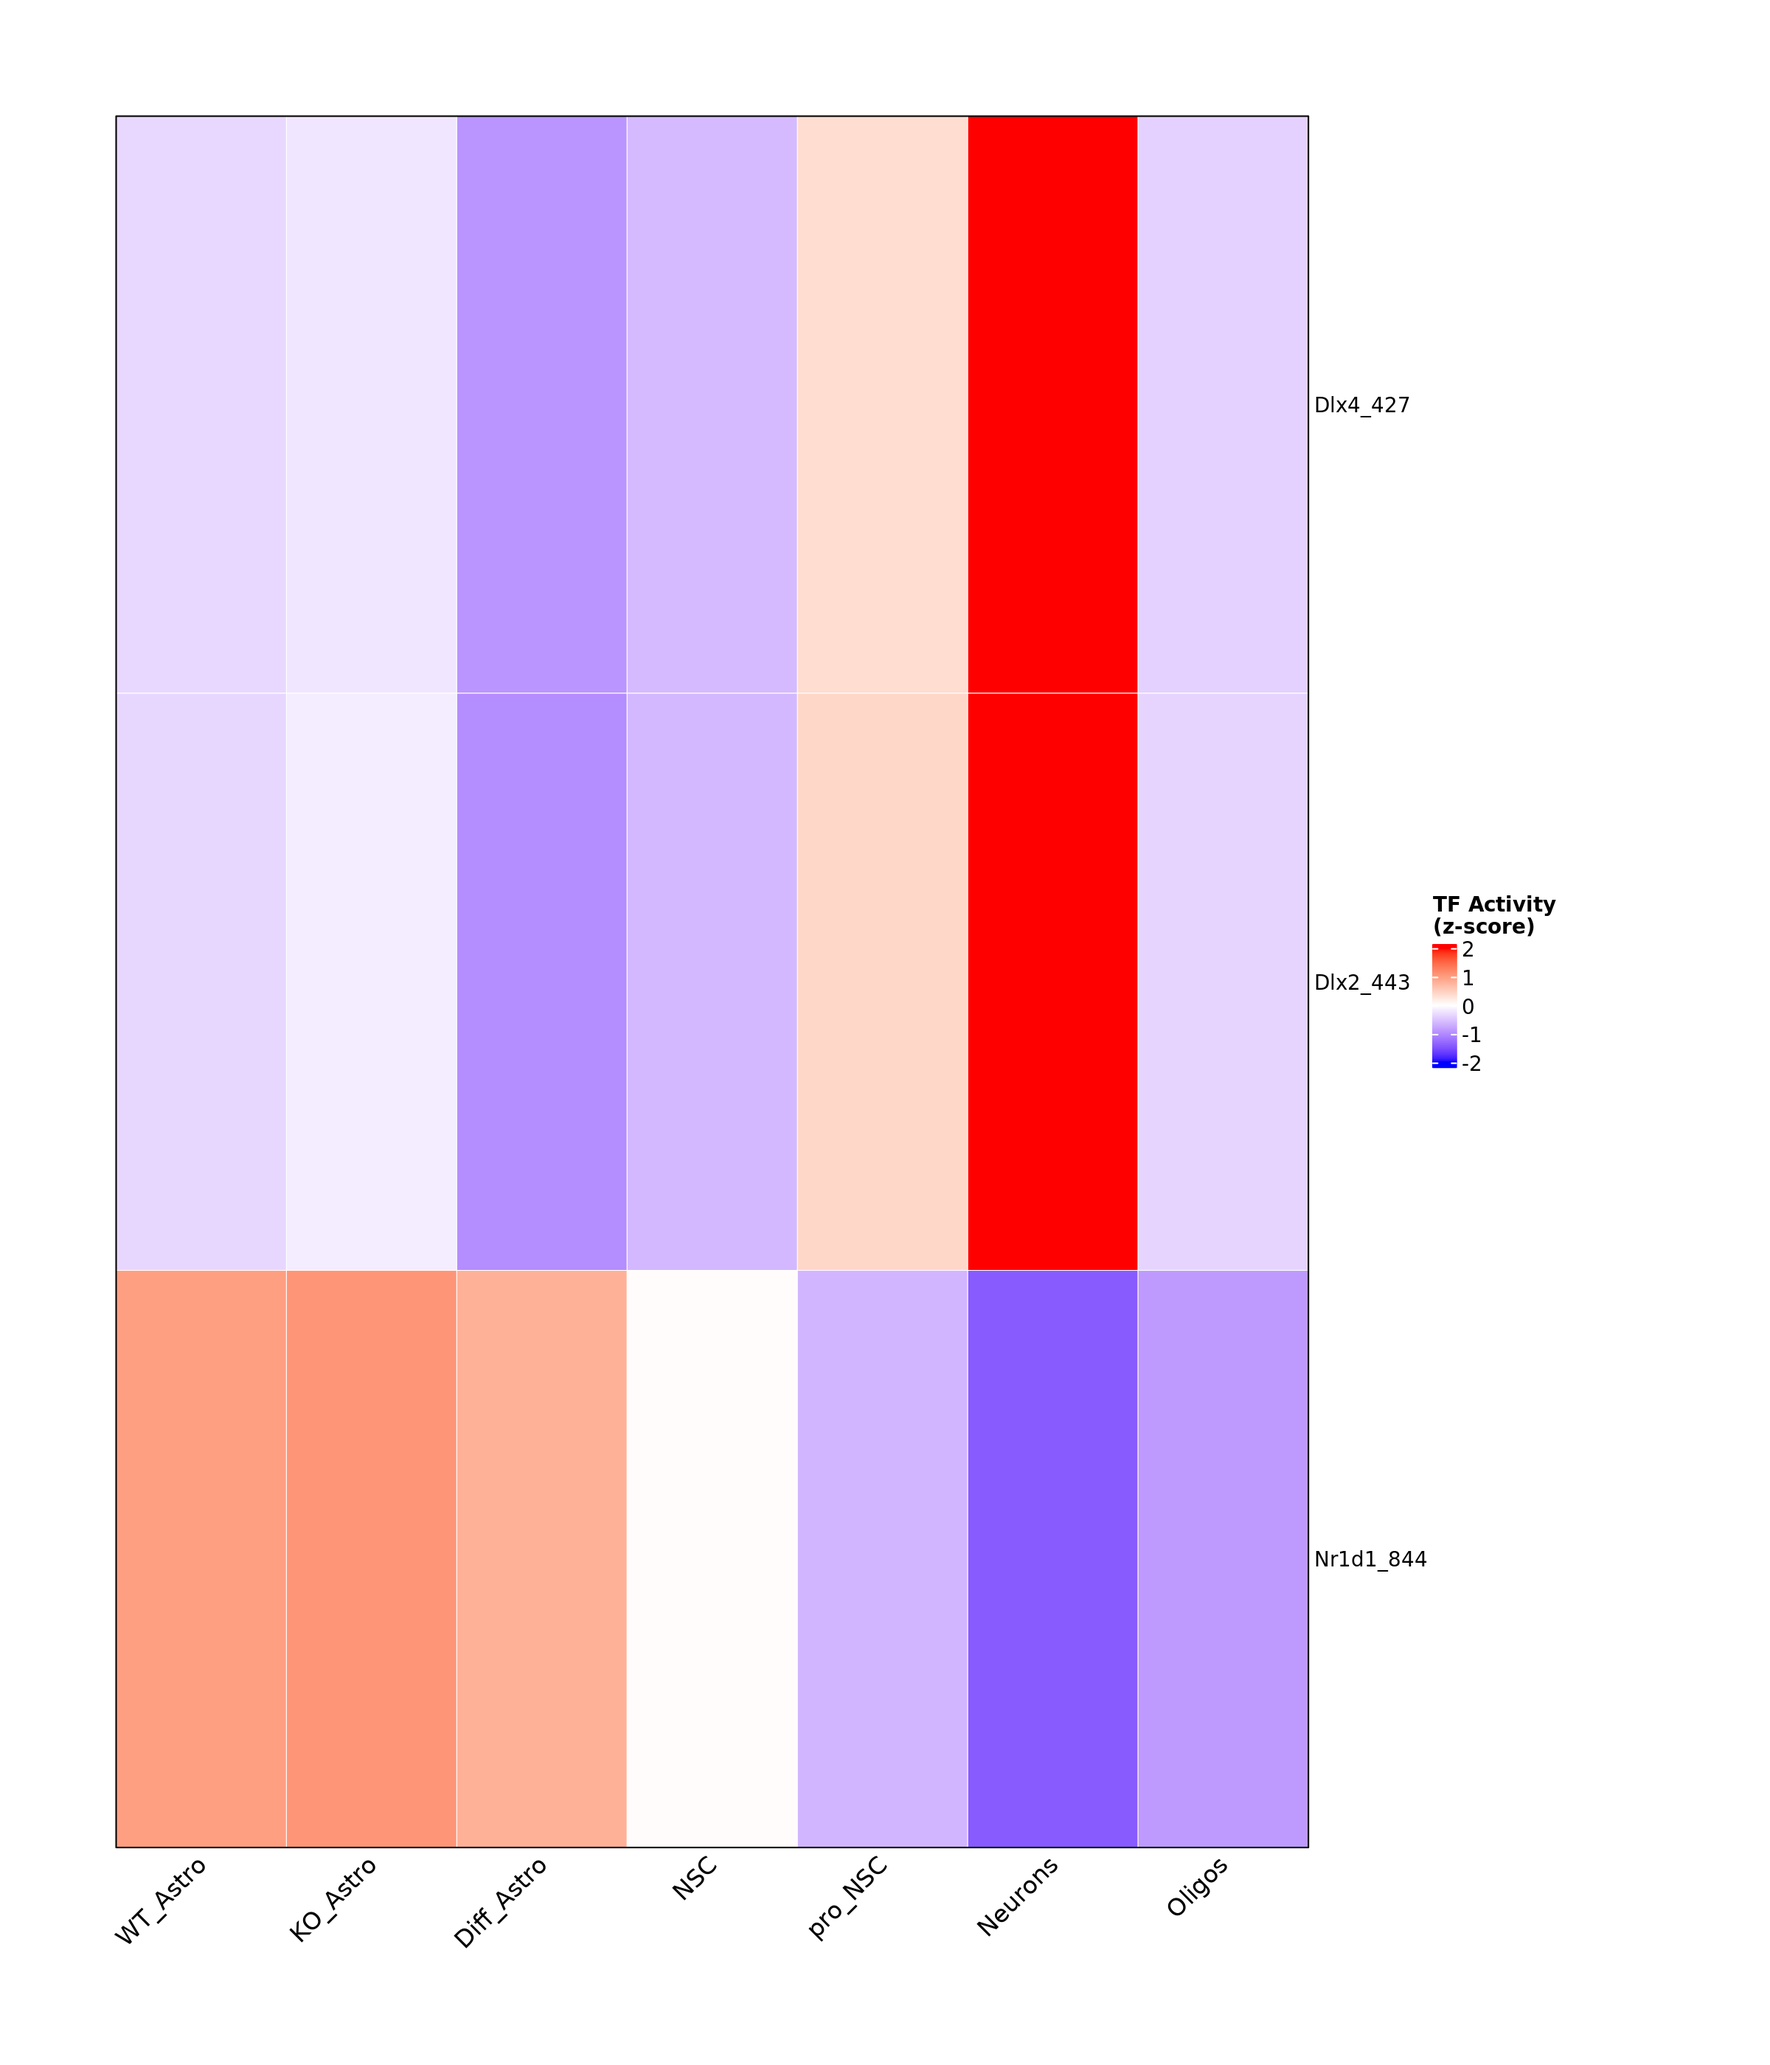
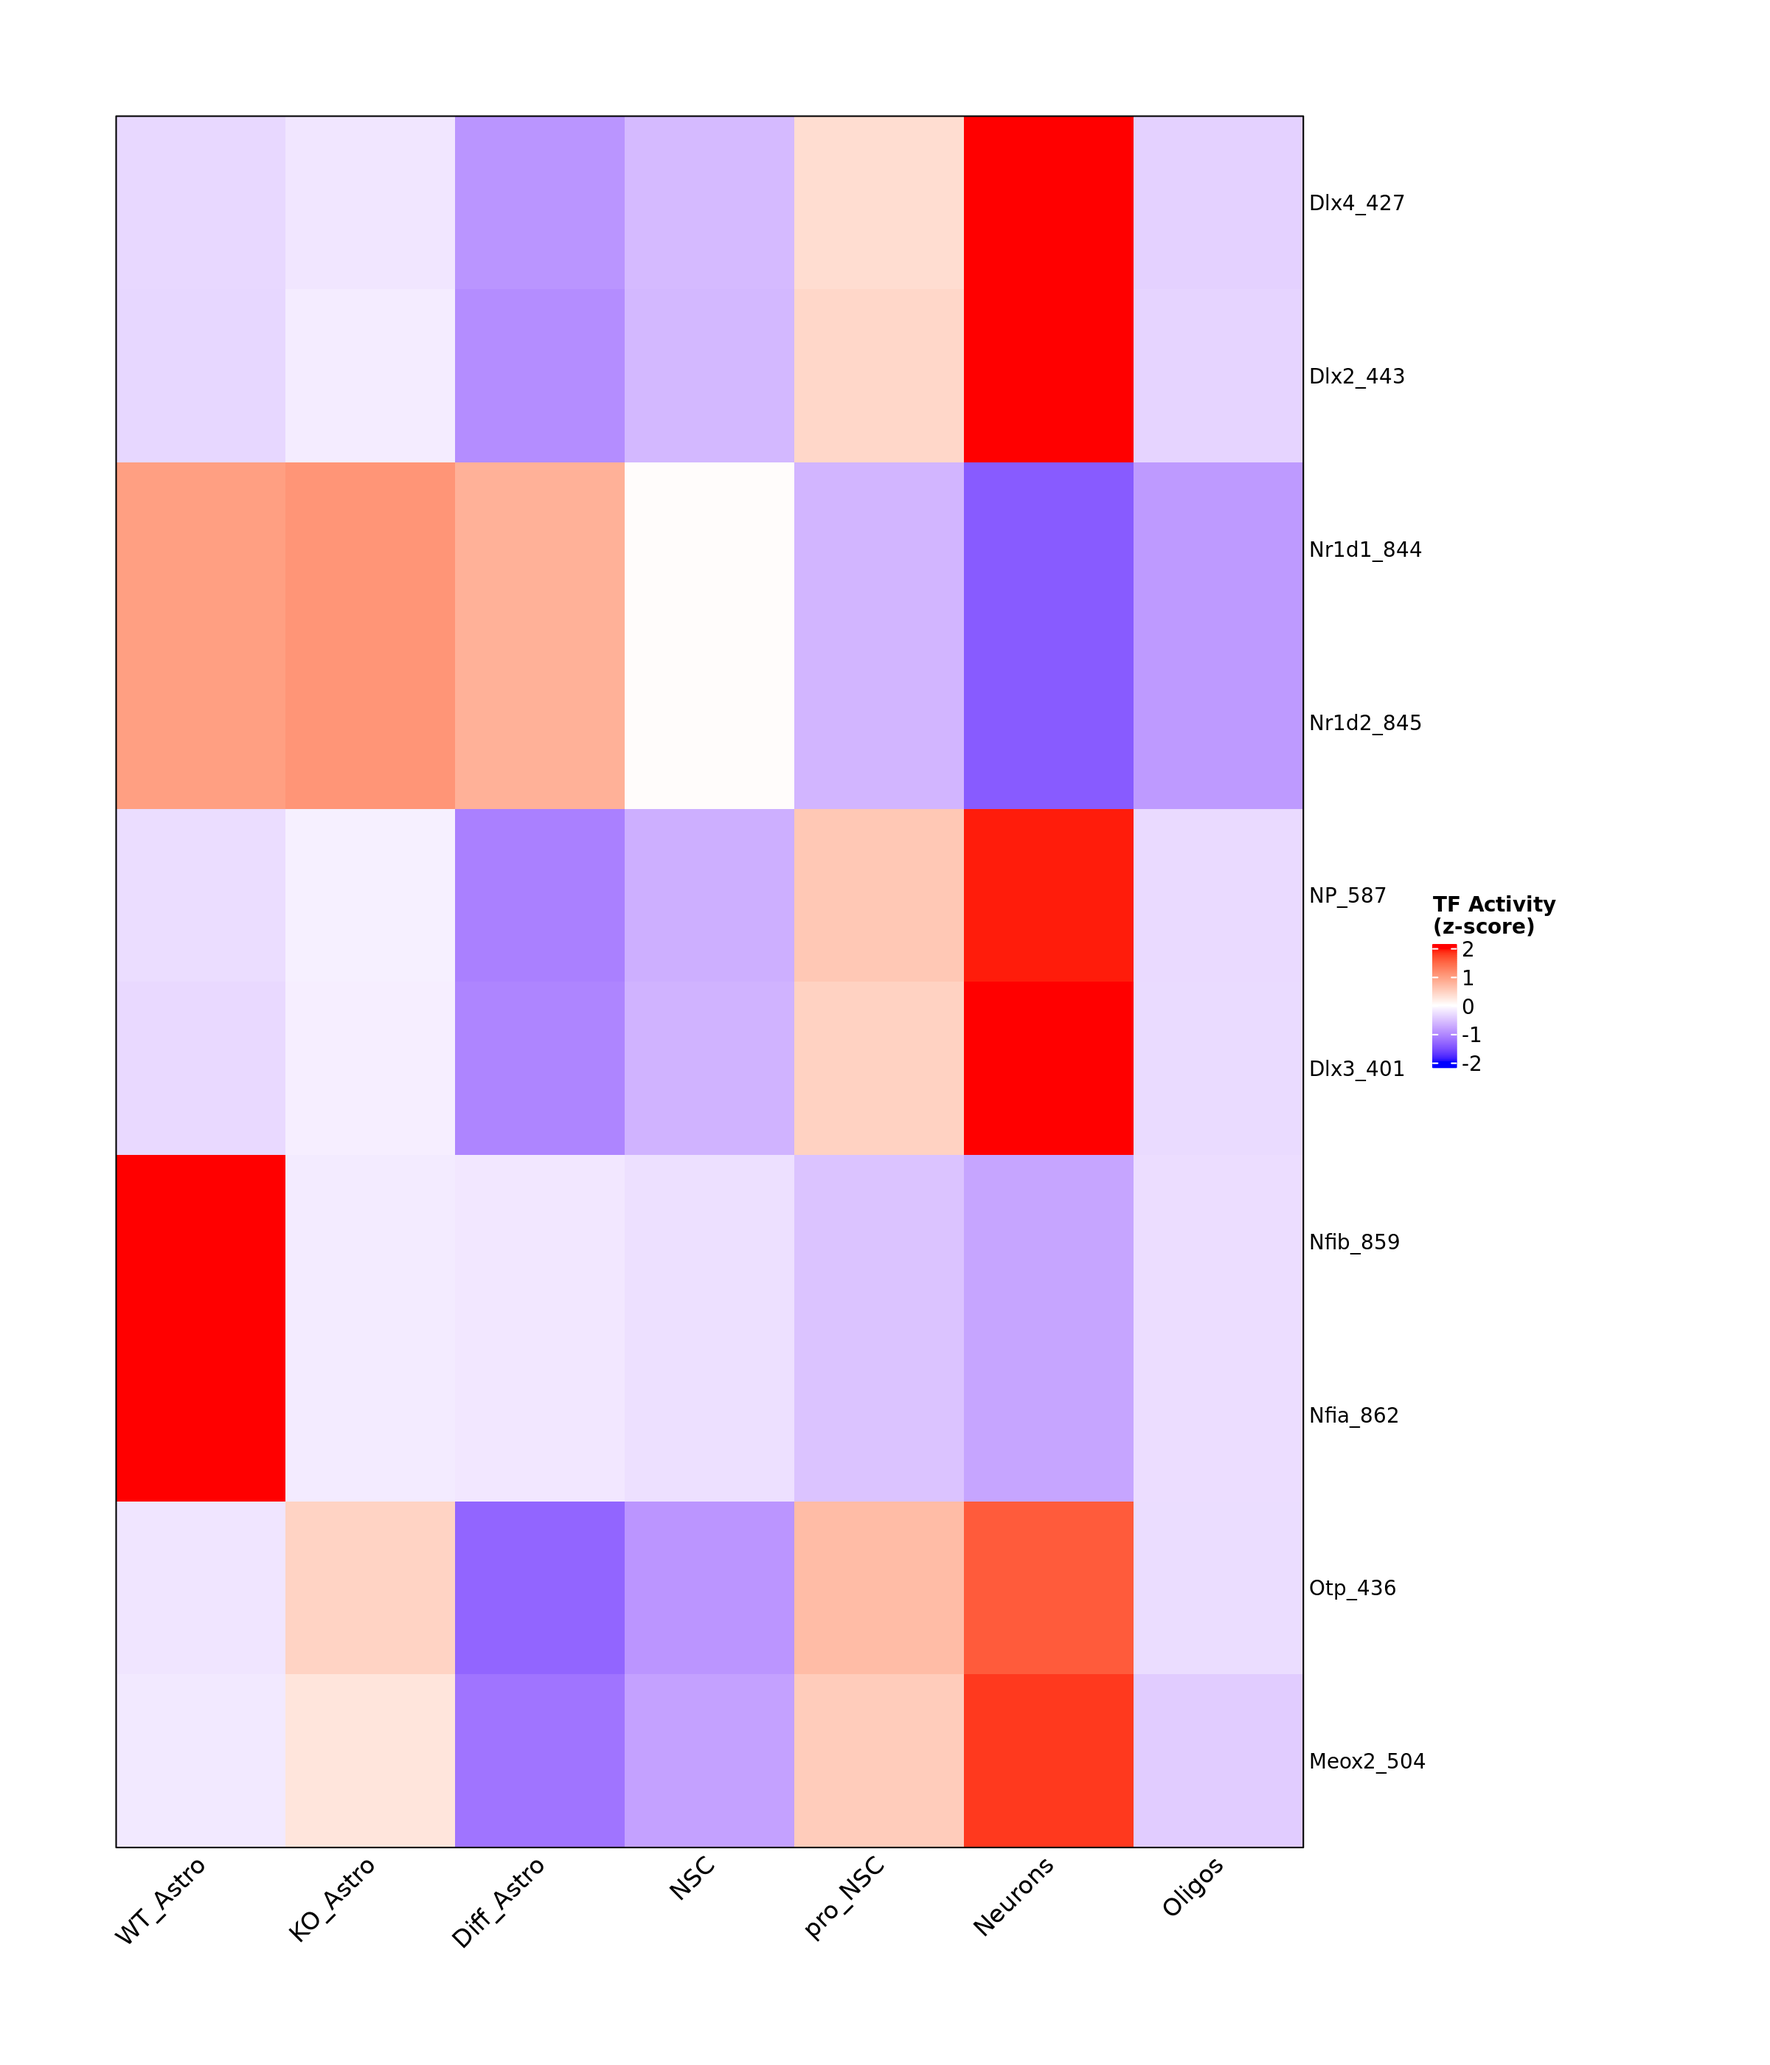
fix Motif and tf figures

diff --git a/README.md b/README.md
@@ -125,14 +125,14 @@ Cells were retained if they met the following thresholds: TSS enrichment ≥ 10,
 ![](figures/Peak-Call-Summary.png?v=1)
 
 
-### Marker Peaks
+### Marker Peaks: Top 3 
 
 ![](figures/MarkerPeaks_Heatmap_Top.png?v=4) 
 	
 ### Motif Enrichment 
 
-![](figures/MotifEnrichment_Heatmap.png?v=4) 
+![](figures/MotifEnrichment_Heatmap.png?v=5) 
 
-### TF activity 
+### TF activity: Top 3 
 
-![](figures/TFactivity_Heatmap.png?v=4)
+![](figures/TFactivity_Heatmap.png?v=5)
